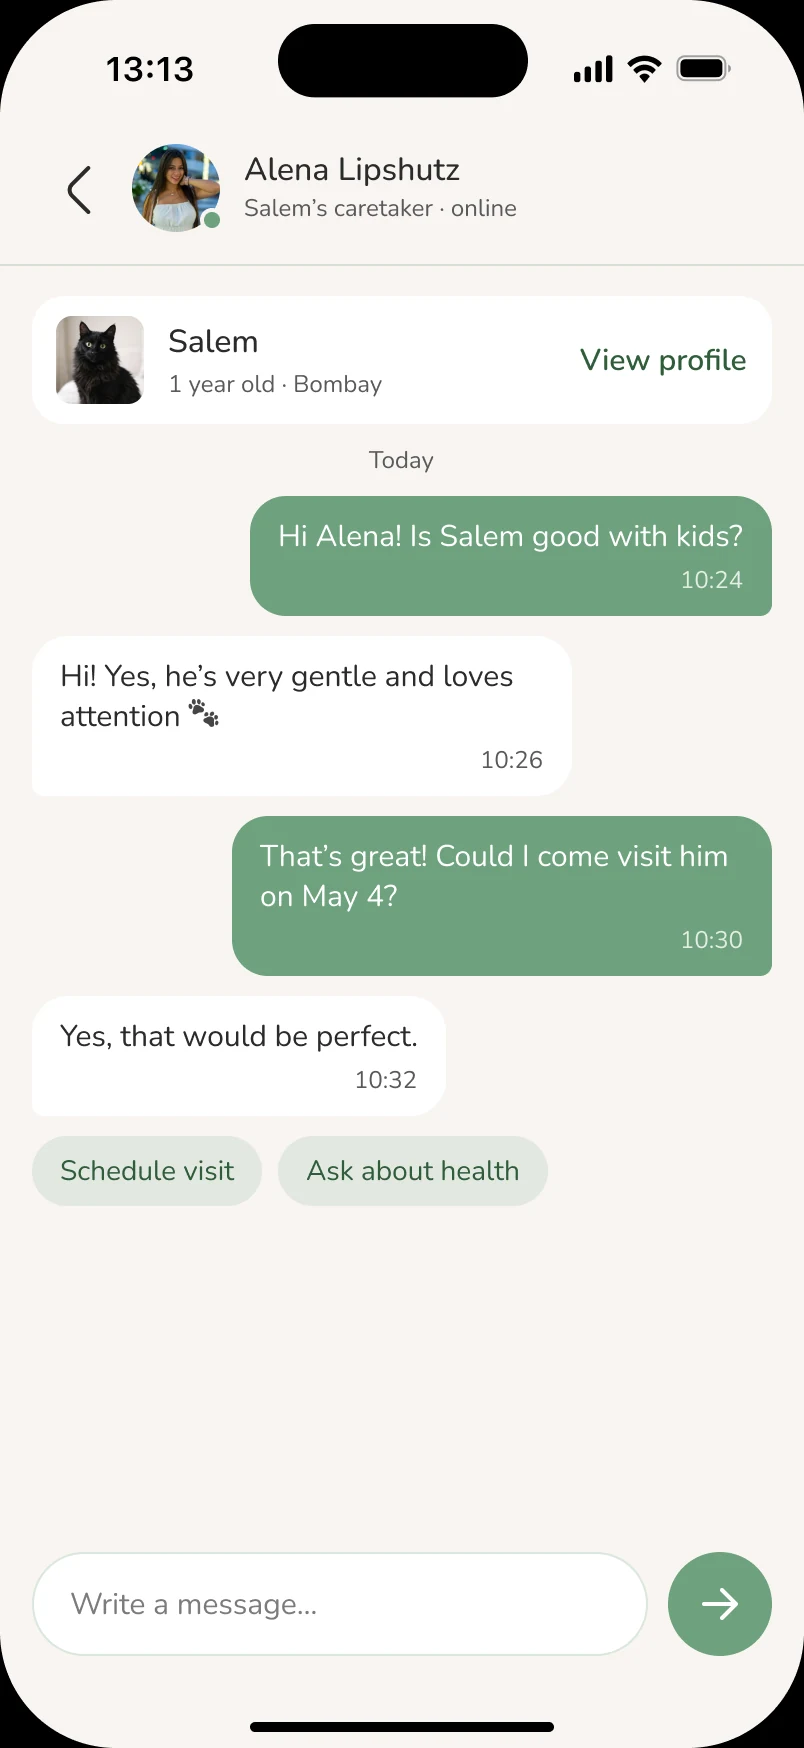
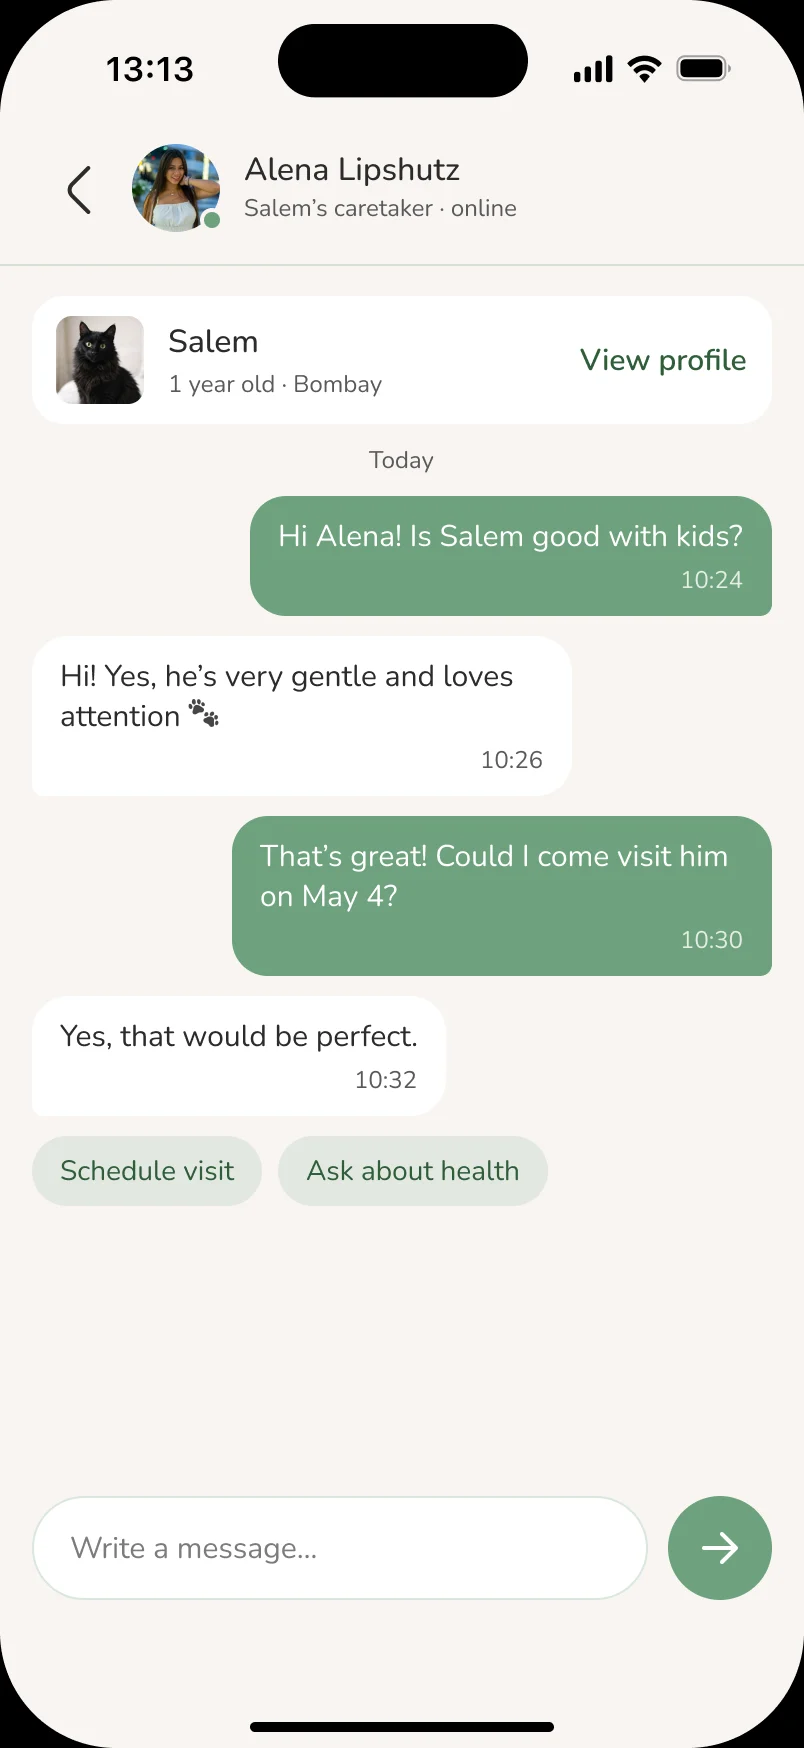
Add files via upload

Changed region(s): [[0.0933, 0.865, 0.3731, 0.9268], [0.8085, 0.8341, 0.9639, 0.9577]]

diff --git a/docs/assets/style.css b/docs/assets/style.css
@@ -170,8 +170,8 @@ a:hover .btn--link .arr,.btn--link:hover .arr{transform:translateX(3px)}
 
 /* final UI stages */
 .stage{border-radius:16px;overflow:hidden}
-.stage--phones{background:var(--sand-deep);height:700px;padding-top:96px;display:flex;justify-content:center;gap:32px}
-.stage--phones .off{padding-top:56px}
+.stage--phones{background:var(--sand-deep);padding:64px 0 88px;display:flex;justify-content:center;align-items:flex-start;gap:32px}
+.stage--phones .off{padding-top:24px}
 .stage--layered{background:var(--burgundy);position:relative;aspect-ratio:1280/760}
 .stage--layered .l1{position:absolute;left:6.25%;top:9.47%;width:68.75%}
 .stage--layered .l2{position:absolute;left:60.94%;top:53.95%;width:32.81%}
@@ -240,7 +240,7 @@ a:hover .btn--link .arr,.btn--link:hover .arr{transform:translateX(3px)}
   .band{overflow-x:auto;justify-content:flex-start}
   .band .shot--phone{width:150px}
   .kgrid .shot--phone{width:100%;max-width:300px;border-radius:15%/6.9%}
-  .stage--phones{height:auto;padding:64px 24px 0;overflow:hidden}
+  .stage--phones{height:auto;padding:48px 24px 64px;overflow:hidden}
   .stage--phones .shot--phone{width:22vw;border-radius:15%/6.9%}
   .stage--split{padding:48px 24px}
   .stage--split .big{width:60%} .stage--split .side{width:30%}
@@ -310,10 +310,10 @@ a:hover .btn--link .arr,.btn--link:hover .arr{transform:translateX(3px)}
   .dlist .drow .h3{font-size:15px}
   .dlist .drow .body{font-size:14px;line-height:1.5}
   .stage{border-radius:12px}
-  .stage--phones{padding:32px 16px 0;gap:14px;height:330px}
+  .stage--phones{padding:28px 16px 40px;gap:14px;height:auto}
   .stage--phones .shot--phone{width:150px}
   .stage--phones > :nth-child(n+3){display:none}
-  .stage--phones .off{padding-top:28px}
+  .stage--phones .off{padding-top:14px}
   .stage--layered{aspect-ratio:auto;padding:24px}
   .stage--layered .l1{position:static;width:100%}
   .stage--layered .l2{display:none}
